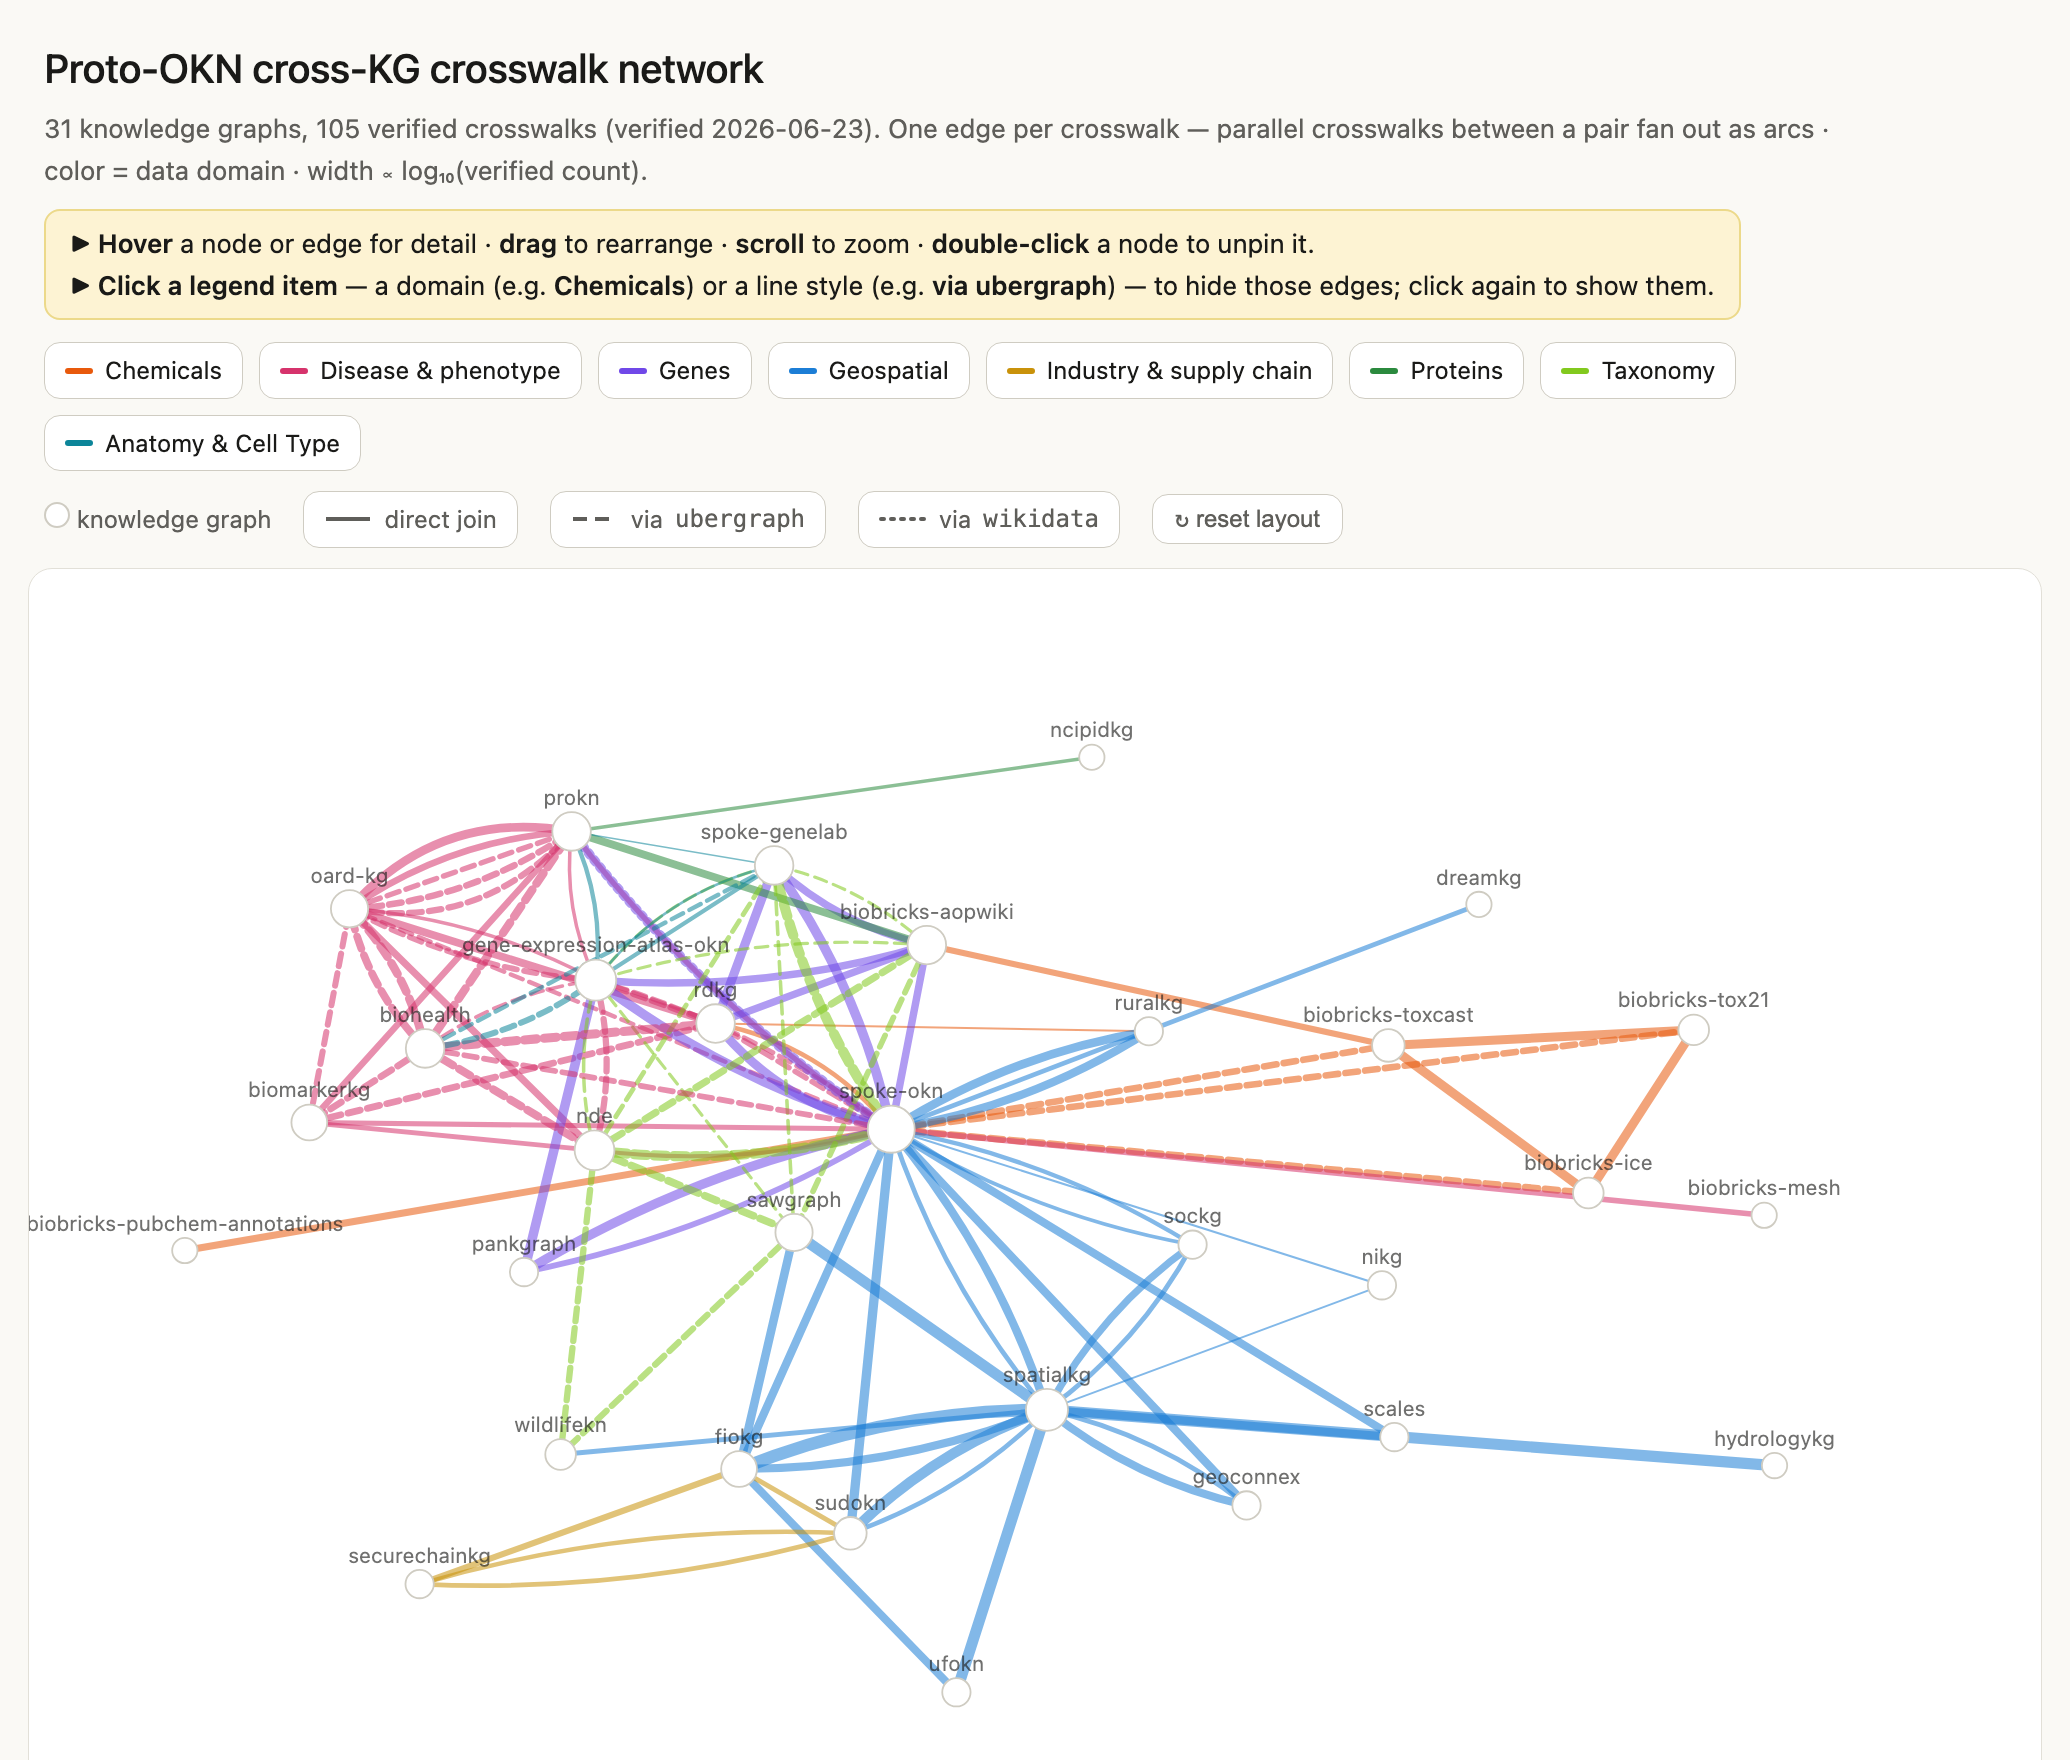
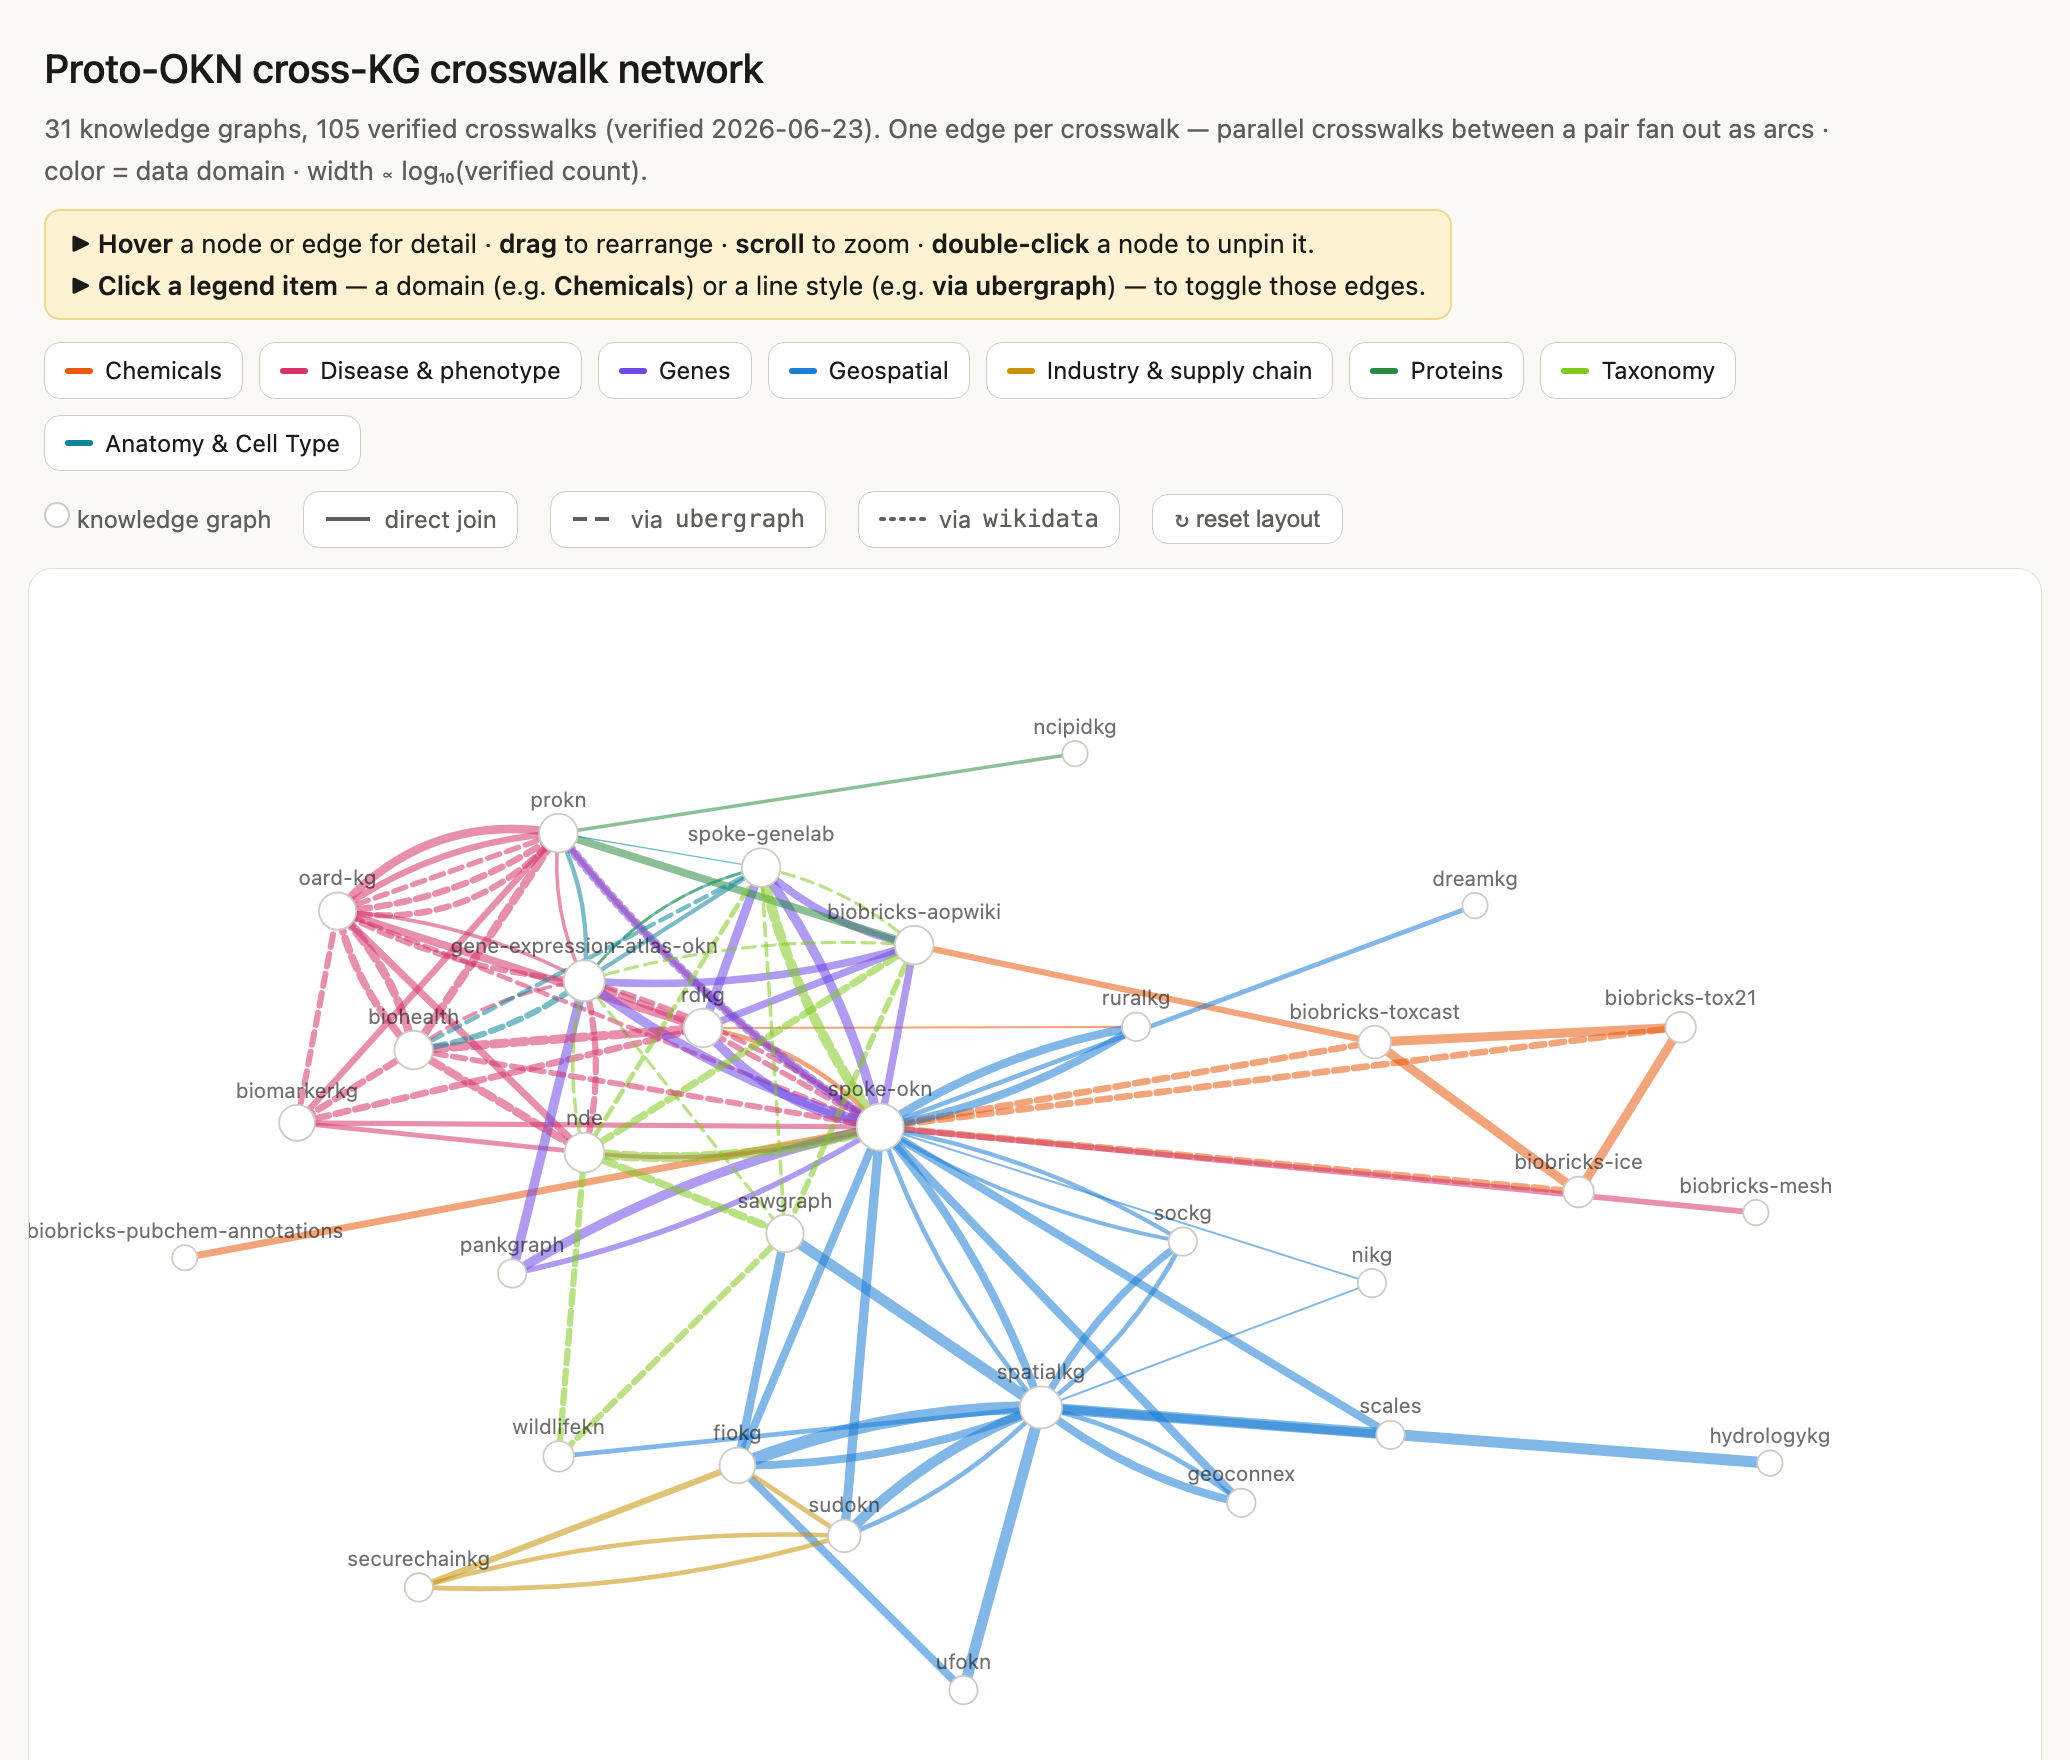
docs: concise "toggle" wording in legend tip
Replace "to hide those edges; click again to show them" with "to toggle
those edges". Regenerate the PNG.

diff --git a/docs/crosswalks/crosswalk-network.html b/docs/crosswalks/crosswalk-network.html
@@ -44,7 +44,7 @@
 <header>
   <h1>Proto-OKN cross-KG crosswalk network</h1>
   <p>31 knowledge graphs, 105 verified crosswalks (verified 2026-06-23). One edge per crosswalk &mdash; parallel crosswalks between a pair fan out as arcs · color = data domain · width &#8733; log&#8321;&#8320;(verified count).</p>
-  <p class="tip">&#9654; <b>Hover</b> a node or edge for detail · <b>drag</b> to rearrange · <b>scroll</b> to zoom · <b>double-click</b> a node to unpin it.<br>&#9654; <b>Click a legend item</b> &mdash; a domain (e.g. <b>Chemicals</b>) or a line style (e.g. <b>via ubergraph</b>) &mdash; to hide those edges; click again to show them.</p>
+  <p class="tip">&#9654; <b>Hover</b> a node or edge for detail · <b>drag</b> to rearrange · <b>scroll</b> to zoom · <b>double-click</b> a node to unpin it.<br>&#9654; <b>Click a legend item</b> &mdash; a domain (e.g. <b>Chemicals</b>) or a line style (e.g. <b>via ubergraph</b>) &mdash; to toggle those edges.</p>
 </header>
 <div class="bar" id="legend"></div>
 <div class="bar">
